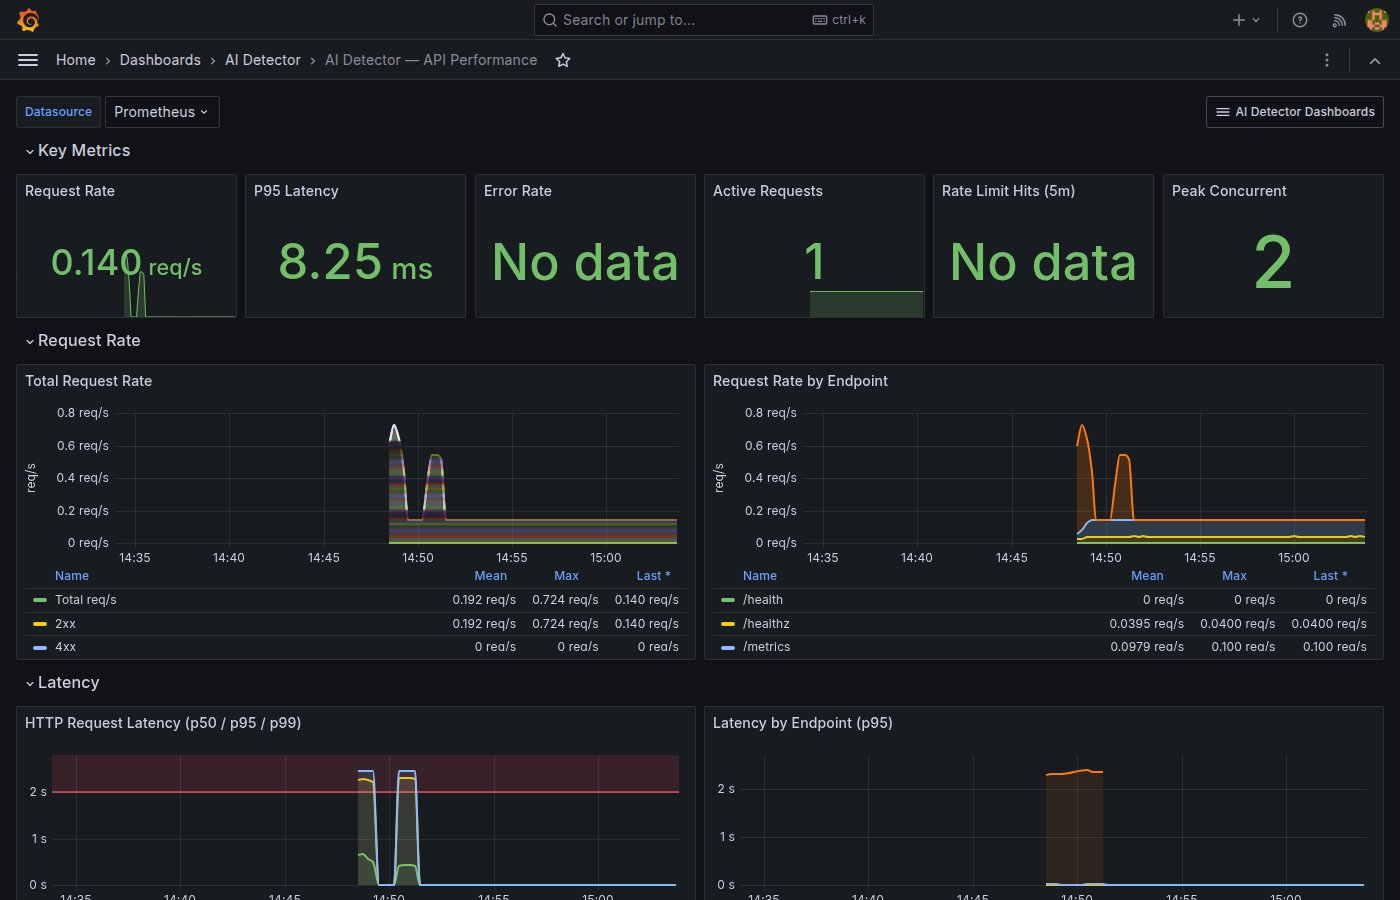
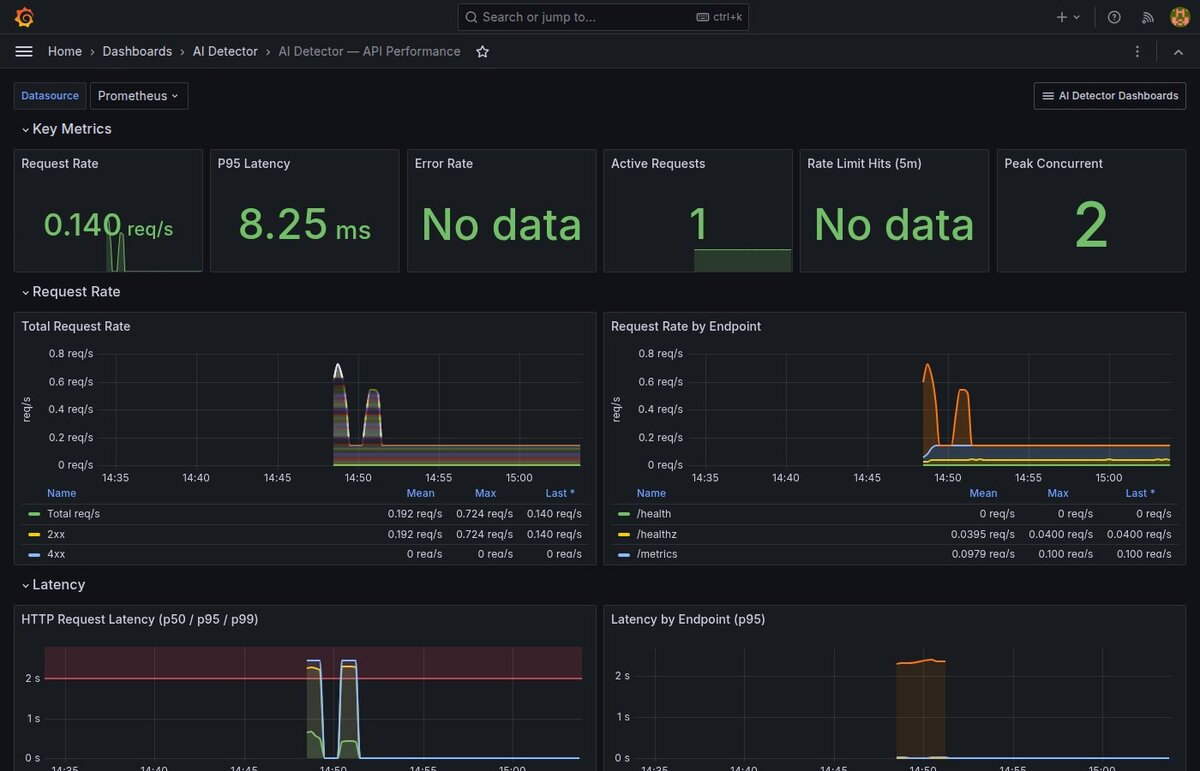
fix: resize images, remove CI/CD screenshot, convert PNG to JPG
- Remove github-actions-ci-cd.png, github-repo-overview.png, streamlit-ui-content.png
- Convert large PNGs to JPG (swagger 432K→112K, health 56K→40K, streamlit 28K→24K)
- Resize all images to max 1200px wide
- Remove CI/CD Pipeline details section from README

Changed region(s): [[0.7708, 0.5914, 0.9558, 0.6226], [0.0308, 0.1556, 0.0925, 0.1868], [0.3392, 0.9961, 0.37, 1.0]]

diff --git a/README.md b/README.md
@@ -27,7 +27,7 @@
 ## Live Demo
 
 <p align="center">
-  <img src="images/streamlit-ui-prod.png" alt="Streamlit Web UI (Production)" width="80%">
+  <img src="images/streamlit-ui-prod.jpg" alt="Streamlit Web UI (Production)" width="80%">
 </p>
 
 <p align="center">
@@ -181,10 +181,10 @@ The application is deployed on Google Cloud Run (serverless). Both the API and W
 <details>
 <summary><strong>Production Screenshots</strong></summary>
 <p align="center">
-  <img src="images/swagger-api-docs.png" alt="Swagger API Documentation" width="100%">
+  <img src="images/swagger-api-docs.jpg" alt="Swagger API Documentation" width="100%">
 </p>
 <p align="center">
-  <img src="images/api-health-screenshot.png" alt="API Health Check" width="100%">
+  <img src="images/api-health-screenshot.jpg" alt="API Health Check" width="100%">
 </p>
 </details>
 
@@ -293,13 +293,6 @@ Real-time monitoring of prediction distribution shifts using a sliding window ov
 | Infrastructure | Docker, Docker Compose, Terraform (modular), Cloud Run, Artifact Registry |
 | CI/CD | GitHub Actions (CI, CD, Model Training, PR Preview, Request Quota) |
 | Cloud | Google Cloud Platform (Vertex AI, Cloud Run, GCS, Artifact Registry, Secret Manager) |
-
-<details>
-<summary><strong>CI/CD Pipeline</strong></summary>
-<p align="center">
-  <img src="images/github-actions-ci-cd.png" alt="GitHub Actions CI/CD Workflows" width="100%">
-</p>
-</details>
 
 <details>
 <summary><strong>Cloud Infrastructure</strong></summary>
